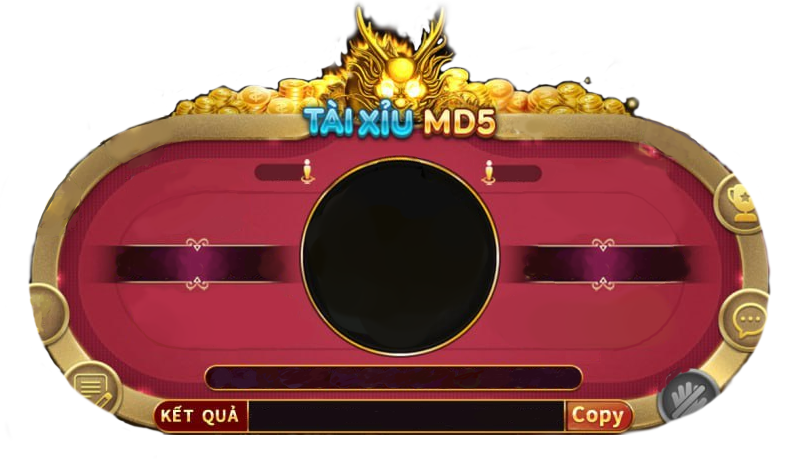
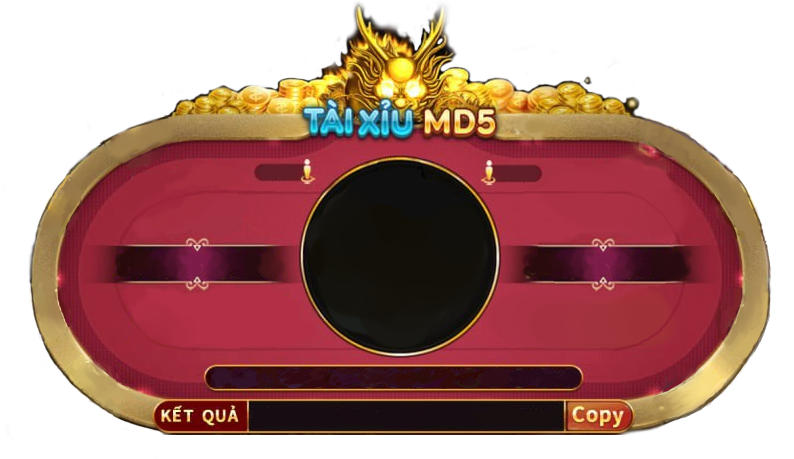
Fix ui

diff --git a/js/taixiumd5.js b/js/taixiumd5.js
@@ -4,12 +4,12 @@ class TaiXiu_MD5{
     is_tai_bet=false;
     is_test_bet=true;
     is_hand=true;
+    is_show_pending_return=false;
 
     thread_game_play=null;
     thread_game_countdown=null;
     thread_game_pending_return=null;
     thread_game_return=null;
-    thread_effect=null;
 
     array_history=[];
 
@@ -63,7 +63,7 @@ class TaiXiu_MD5{
         $("#preloader").show();
         taixiu.laodAllEmp();
         taixiu.load_session();
-        this.thread_effect=setInterval(taixiu.createGoldenDot, 2000);
+        $("#tx").draggable();
     }
 
     load_session(){
@@ -110,8 +110,6 @@ class TaiXiu_MD5{
                 html_game+='<div id="txt_money_bet_tai" class="txt_money_bet">0</div>';
             html_game+='</div>';
             html_game+='<div id="dia">';
-                html_game+='<div id="dice_history"></div>';
-                html_game+='<div id="dice_md5"></div>';
                 html_game+='<div id="effect_c"></div>';
                 html_game+='<div id="dice">';
                     html_game+='<div id="all_dice">';
@@ -124,32 +122,13 @@ class TaiXiu_MD5{
                     html_game+='<div id="countdown"><i class="fas fa-spinner fa-spin"></i></div>';
                 html_game+='</div>';
 
-                html_game+='<div id="dice_panel_bet">';
-                    html_game+='<div class="row">';
-                    html_game+='<div class="col-12">';
-                        html_game+='<button onclick="taixiu.bet(10000)" class="btn-bet">10k</button>';
-                        html_game+='<button onclick="taixiu.bet(20000)" class="btn-bet">20k</button>';
-                        html_game+='<button onclick="taixiu.bet(30000)" class="btn-bet">30k</button>';
-                        html_game+='<button onclick="taixiu.bet(50000)" class="btn-bet">50k</button>';
-                        html_game+='<button onclick="taixiu.bet(100000)" class="btn-bet">100k</button>';
-                        html_game+='<button onclick="taixiu.bet(500000)" class="btn-bet">500k</button>';
-                        html_game+='<button onclick="taixiu.bet(1000000)" class="btn-bet">1M</button>';
-                    html_game+='</div>';
-                    html_game+='<div class="col-12">';
-                        html_game+='<button class="btnx2" onclick="taixiu.betx2();"><i class="fas fa-socks"></i> X2</button>';
-                        html_game+='<button class="btn-bet-done" onclick="taixiu.done_bet();return false;"><i class="fas fa-check-circle"></i> Đặt Cược</button>';
-                        html_game+='<button class="btnx2" onclick="taixiu.cancel_bet();return false;"><i class="fas fa-times-circle"></i> Hủy bỏ</button>';
-                    html_game+='</div>';
-                    html_game+='</div>';
-                html_game+='</div>';
-
             html_game+='</div>';
             html_game+='<div class="info">';
                 html_game+='<div id="name_session" class="txt_session">#name session</div>';
                 html_game+='<div id="total_user_xiu" class="txt_user xiu">0</div>';
                 html_game+='<img id="txt_xiu" class="txt xiu" src="images/txt_xiu.png"/>';
                 html_game+='<div id="txt_money_bet_total_xiu" class="txt_money_bet_total xiu">0</div>';
-                html_game+='<div id="btn-bet-xiu"  role="button" class="btn-bet xiu" onclick="taixiu.show_bet(false);return false;"></div>';
+                html_game+='<div id="btn-bet-xiu" role="button" class="btn-bet xiu" onclick="taixiu.show_bet(false);return false;"></div>';
                 html_game+='<div id="txt_money_bet_xiu" class="txt_money_bet">0</div>';
             html_game+='</div>';
             html_game+='<div class="btn">';
@@ -160,6 +139,30 @@ class TaiXiu_MD5{
                 html_game+='<div id="btn_copy_md5" onclick="taixiu.copy_md5()" class="btn_copy_md5"></div>';
             html_game+='</div>';
         html_game+='</div>';
+            html_game+='<div>';
+                html_game+='<div id="dice_history"></div>';
+                html_game+='<div id="dice_md5"></div>';
+
+                html_game+='<div id="dice_panel_bet">';
+                    html_game+='<div class="row">';
+                        html_game+='<div class="col-12">';
+                            html_game+='<button onclick="taixiu.bet(10000)" class="btn-bet">10k</button>';
+                            html_game+='<button onclick="taixiu.bet(20000)" class="btn-bet">20k</button>';
+                            html_game+='<button onclick="taixiu.bet(30000)" class="btn-bet">30k</button>';
+                            html_game+='<button onclick="taixiu.bet(50000)" class="btn-bet">50k</button>';
+                            html_game+='<button onclick="taixiu.bet(100000)" class="btn-bet">100k</button>';
+                            html_game+='<button onclick="taixiu.bet(500000)" class="btn-bet">500k</button>';
+                            html_game+='<button onclick="taixiu.bet(1000000)" class="btn-bet">1M</button>';
+                        html_game+='</div>';
+                        html_game+='<div class="col-12">';
+                            html_game+='<button class="btnx2" onclick="taixiu.betx2();"><i class="fas fa-socks"></i> X2</button>';
+                            html_game+='<button class="btn-bet-done" onclick="taixiu.done_bet();return false;"><i class="fas fa-check-circle"></i> Đặt Cược</button>';
+                            html_game+='<button class="btnx2" onclick="taixiu.cancel_bet();return false;"><i class="fas fa-times-circle"></i> Hủy bỏ</button>';
+                        html_game+='</div>';
+                    html_game+='</div>';
+                html_game+='</div>';
+
+            html_game+='</div>';
         html_game+='</div>';
 
         taixiu.emp_game=$(html_game);
@@ -186,10 +189,15 @@ class TaiXiu_MD5{
             this.timeLeft=this.timeLeft_length;
         else
             this.timeLeft=timer_length;
+
+        this.is_show_pending_return=false;
         this.total_bet_tai=0;
         this.total_bet_xiu=0;
         this.total_user_tai=0;
         this.total_user_xiu=0;
+
+        taixiu.money_bet=0;
+        taixiu.money_pending_bet=0;
         $("#txt_xiu").removeClass("zoom");
         $("#txt_tai").removeClass("zoom");
         $("#all_dice").hide();
@@ -226,6 +234,7 @@ class TaiXiu_MD5{
     }
 
     show_pending_return(){
+        this.is_show_pending_return=true;
         taixiu.cancel_bet();
         clearInterval(this.thread_game_countdown);
         $("#effect_c").hide();
@@ -264,7 +273,7 @@ class TaiXiu_MD5{
 
         $("#all_dice").show();
         taixiu.money_pending_bet=0;
-        taixiu.money_bet=0;
+
         $("#roll_dice").remove();
         
         taixiu.obj_h_temp={};
@@ -313,10 +322,16 @@ class TaiXiu_MD5{
         }
         taixiu.add_dice_history(taixiu.obj_h_temp);
         taixiu.is_play=false;
+        if(taixiu.money_bet!=0){
+            if(w.user_login!=null){
+                taixiu.obj_h_temp["money_bet"]=taixiu.money_bet;
+                taixiu.obj_h_temp["date"]=cr.getDateCur();
+                cr_realtime.add("tx","bet_history/"+w.user_login.username,taixiu.obj_h_temp);
+            }
+        }
     }
 
     close(){
-        if(this.thread_effect!=null) clearInterval(this.thread_effect);
         taixiu.is_play=false;
         $("#preloader").hide();
         $("#dice_history").html("");
@@ -351,6 +366,10 @@ class TaiXiu_MD5{
     }
 
     show_bet(is_tai=true){
+        if(taixiu.is_show_pending_return){
+            cr.msg("Đã hết thời gian cược xin vui lòng đợi phiên sau!","Cược","warning");
+            return;
+        }
         taixiu.is_tai_bet=is_tai;
         $("#dice_panel_bet").show();
         $("#btn-bet-tai").removeClass("block");
@@ -366,10 +385,14 @@ class TaiXiu_MD5{
             $("#txt_money_bet_tai").html("0 đ");
         }
         taixiu.update_ui();
+        $("#dice_history").hide();
+        $("#dice_md5").hide();
     }
 
     cancel_bet(){
         $("#dice_panel_bet").hide();
+        $("#dice_history").show();
+        $("#dice_md5").show();
         $("#btn-bet-tai").removeClass("block");
         $("#btn-bet-xiu").removeClass("block");
         if(taixiu.is_tai_bet){
@@ -380,6 +403,7 @@ class TaiXiu_MD5{
     }
 
     done_bet(){
+        var sel="";
         taixiu.money_bet=taixiu.money_pending_bet;
         taixiu.money_pending_bet=0;
         $("#dice_panel_bet").hide();
@@ -390,10 +414,13 @@ class TaiXiu_MD5{
             taixiu.close();
         }
         else{
-            if(taixiu.is_tai_bet)
-                cr_realtime.add("tx",taixiu.id_session+"/users/tai/"+w.user_login.username,taixiu.money_bet);
-            else
-                cr_realtime.add("tx",taixiu.id_session+"/users/xiu/"+w.user_login.username,taixiu.money_bet);
+            if(taixiu.is_tai_bet){
+                sel="tai";
+            }
+            else{
+                sel="xiu";
+            }
+            cr_realtime.add("tx",taixiu.id_session+"/users/"+sel+"/"+w.user_login.username,taixiu.money_bet);
         }
     }
 
@@ -416,17 +443,6 @@ class TaiXiu_MD5{
     }
 
     update_ui(){
-        var referenceDiv = $('#dia');
-        var referenceOffset = referenceDiv.offset();
-        $('#dice_panel_bet').css({
-            top: referenceOffset.top + referenceDiv.height() + 165 + 'px'
-        });
-        $('#dice_history').css({
-            top: referenceOffset.top + referenceDiv.height() + 136 + 'px'
-        });
-        $('#dice_md5').css({
-            top: referenceOffset.top + referenceDiv.height() + 176 + 'px'
-        });
         $("#txt_money_bet_total_tai").html(w.formatVND(this.total_bet_tai));
         $("#txt_money_bet_total_xiu").html(w.formatVND(this.total_bet_xiu));
         $("#total_user_tai").html(this.total_user_tai);
@@ -690,37 +706,25 @@ class TaiXiu_MD5{
     }
 
     history(){
-        this.msg("","Lịch sử cược");
+        var s_title="Lịch sử cược";
+        if(w.user_login!=null){
+            cr_realtime.list_one("tx","bet_history",datas=>{
+                alert(JSON.stringify(datas));
+                var html_history='';
+                $.each(datas,function(index,h){
+                    html_history+=JSON.stringify(h);
+                });
+                taixiu.msg(html_history,s_title);
+            },()=>{
+                taixiu.msg('<div class="w-100">Bạn chưa cược lần nào cả!</div>',s_title);
+            });
+        }else{
+            taixiu.msg("Đăng nhập để xem lịch sử cược!",s_title,"warning");
+        }
     }
 
     rank(){
         this.msg("","Bảng xếp hạng");
-    }
-
-    createGoldenDot(){
-        var l=Math.floor(Math.random() * 10) + 3;
-       
-           for (var i = 0; i < l; i++) {
-               var $goldenDot = $('<div class="golden-dot"></div>');
-               var w=Math.floor(Math.random() * 12) + 3;
-               $('body').append($goldenDot);
-               var startX = $('#dia').offset().left + 110;
-               var startY = $('#dia').offset().top-140;
-               $goldenDot.css({
-                   left: startX + 'px',
-                   top: startY + 'px',
-                   width:w+'px',
-                   height:w+'px'
-               });
-               var speed = 1500 + Math.random() * 1500;
-               $goldenDot.animate({
-                   top: startY - 300 + Math.random() * 100 + 'px', 
-                   left: startX + Math.random() * 100 - 10 + 'px', 
-                   opacity: 0  // Mờ dần
-               }, speed, function() {
-                   $(this).remove(); 
-               });
-           }
     }
 
     hand(){

diff --git a/index.html b/index.html
@@ -18,8 +18,8 @@
   <link rel="apple-touch-icon" href="images/favicon.ico">
   <link rel="stylesheet" href="css/bootstrap.min.css">
   <link rel="stylesheet" href="css/slimselect.css">
-  <link rel="stylesheet" href="css/style.css?v=1.93">
-  <link rel="stylesheet" href="css/taixiumd5.css?v=1.93">
+  <link rel="stylesheet" href="css/style.css?v=1.95">
+  <link rel="stylesheet" href="css/taixiumd5.css?v=1.95">
   <link href="https://cdn.jsdelivr.net/npm/sweetalert2@11.14.1/dist/sweetalert2.min.css" rel="stylesheet">
   <link rel="stylesheet" href="https://cdnjs.cloudflare.com/ajax/libs/font-awesome/6.4.2/css/all.min.css" />
 
@@ -30,11 +30,11 @@
   <script src="https://code.jquery.com/ui/1.12.1/jquery-ui.min.js"></script>
   <script src="https://cdn.jsdelivr.net/npm/chart.js"></script>
   <script src="https://cdnjs.cloudflare.com/ajax/libs/sweetalert2/11.14.0/sweetalert2.min.js"></script>
-  <script src="Carrot-Framework-Web/cr_firestore.js?v=1.93"></script>
-  <script src="Carrot-Framework-Web/cr_realtime.js?v=1.93"></script>
-  <script src="Carrot-Framework-Web/Carrot.js?v=1.93"></script>
-  <script src="Carrot-Framework-Web/cr_user.js?v=1.93"></script>
-  <script src="js/web.js?v=1.93"></script>
+  <script src="Carrot-Framework-Web/cr_firestore.js?v=1.95"></script>
+  <script src="Carrot-Framework-Web/cr_realtime.js?v=1.95"></script>
+  <script src="Carrot-Framework-Web/Carrot.js?v=1.95"></script>
+  <script src="Carrot-Framework-Web/cr_user.js?v=1.95"></script>
+  <script src="js/web.js?v=1.95"></script>
   <script type="module">
     import { initializeApp } from "https://www.gstatic.com/firebasejs/10.13.2/firebase-app.js";
     import { getDatabase, ref, set,onValue,child,get,remove} from "https://www.gstatic.com/firebasejs/10.13.2/firebase-database.js";

diff --git a/css/taixiumd5.css b/css/taixiumd5.css
@@ -15,7 +15,7 @@
 }
   
   #tx #game_tx{
-    background-image: url('../images/tx_bk.png?v=13');
+    background-image: url('../images/tx_bk.png?v=15');
     background-repeat: no-repeat;
     background-size: 100% 100%;
     width: 794px;
@@ -360,30 +360,32 @@
     left: 36px;
   }
   
-  #dia #dice_history{
+  #tx div #dice_history{
     height: 22px;
     z-index: 60000;
     display: flex;
-    position: absolute;
+    position: relative;
+    top: -92px;
   }
   
-  #dia #dice_history .item{
+  #tx div #dice_history .item{
     width: 20px;
     height: 20px;
   }
   
-  #dia #dice_history .item.tai{
+  #tx div #dice_history .item.tai{
     background-image: url('../images/r_tai.png');
   }
   
-  #dia #dice_history .item.xiu{
+  #tx div #dice_history .item.xiu{
     background-image: url('../images/r_xiu.png');
   }
   
-  #dia #dice_md5{
-    position: absolute;
+  #tx div #dice_md5{
+    position: relative;
     color: #e3db76;
-    top: 637px;
+    top: -75px;
+    left: 58px;
     font-size: 14px;
     text-shadow: 2px 2px 0px #992604;
   }
@@ -401,11 +403,12 @@
   #dice_panel_bet{
     color: white;
     background-color: #00000042;
-    width: 547px;
-    position: absolute;
-    top: 548px;
+    width: auto;
+    position: relative;
+    top: -92px;
     display: none;
     z-index: 500;
+    text-align: center;
   }
 
   #dia #dice_roll{
